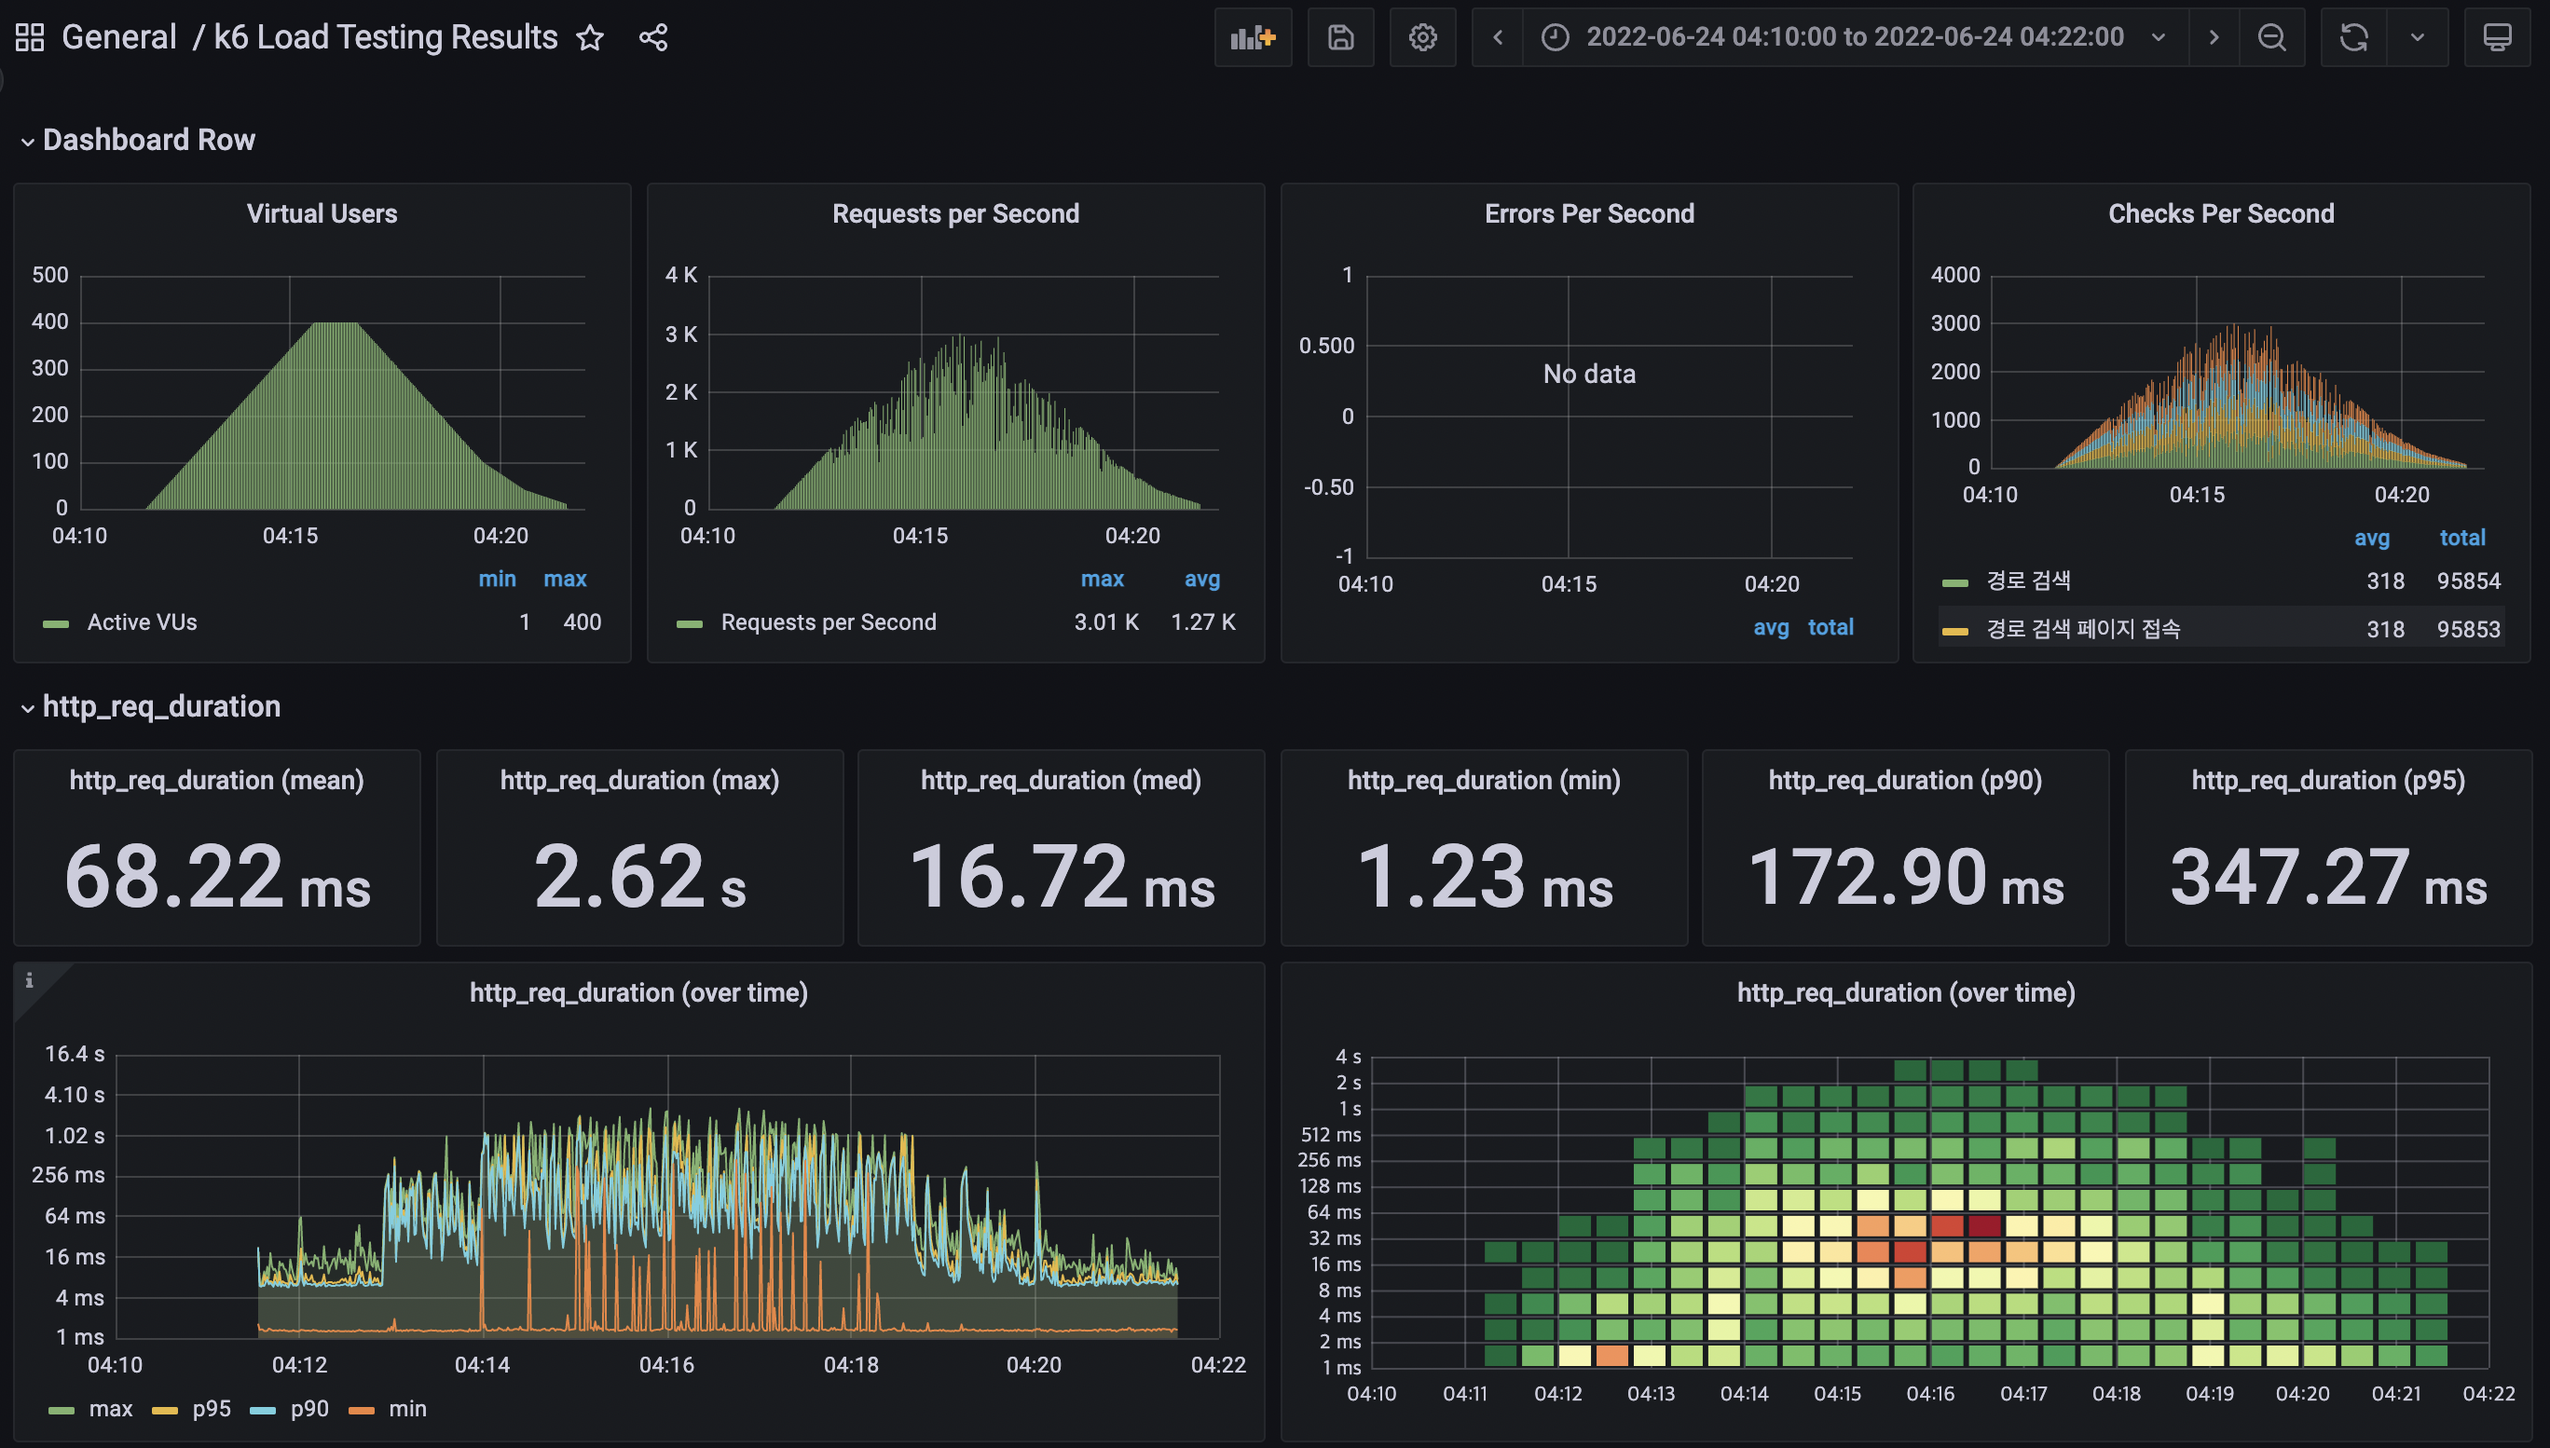
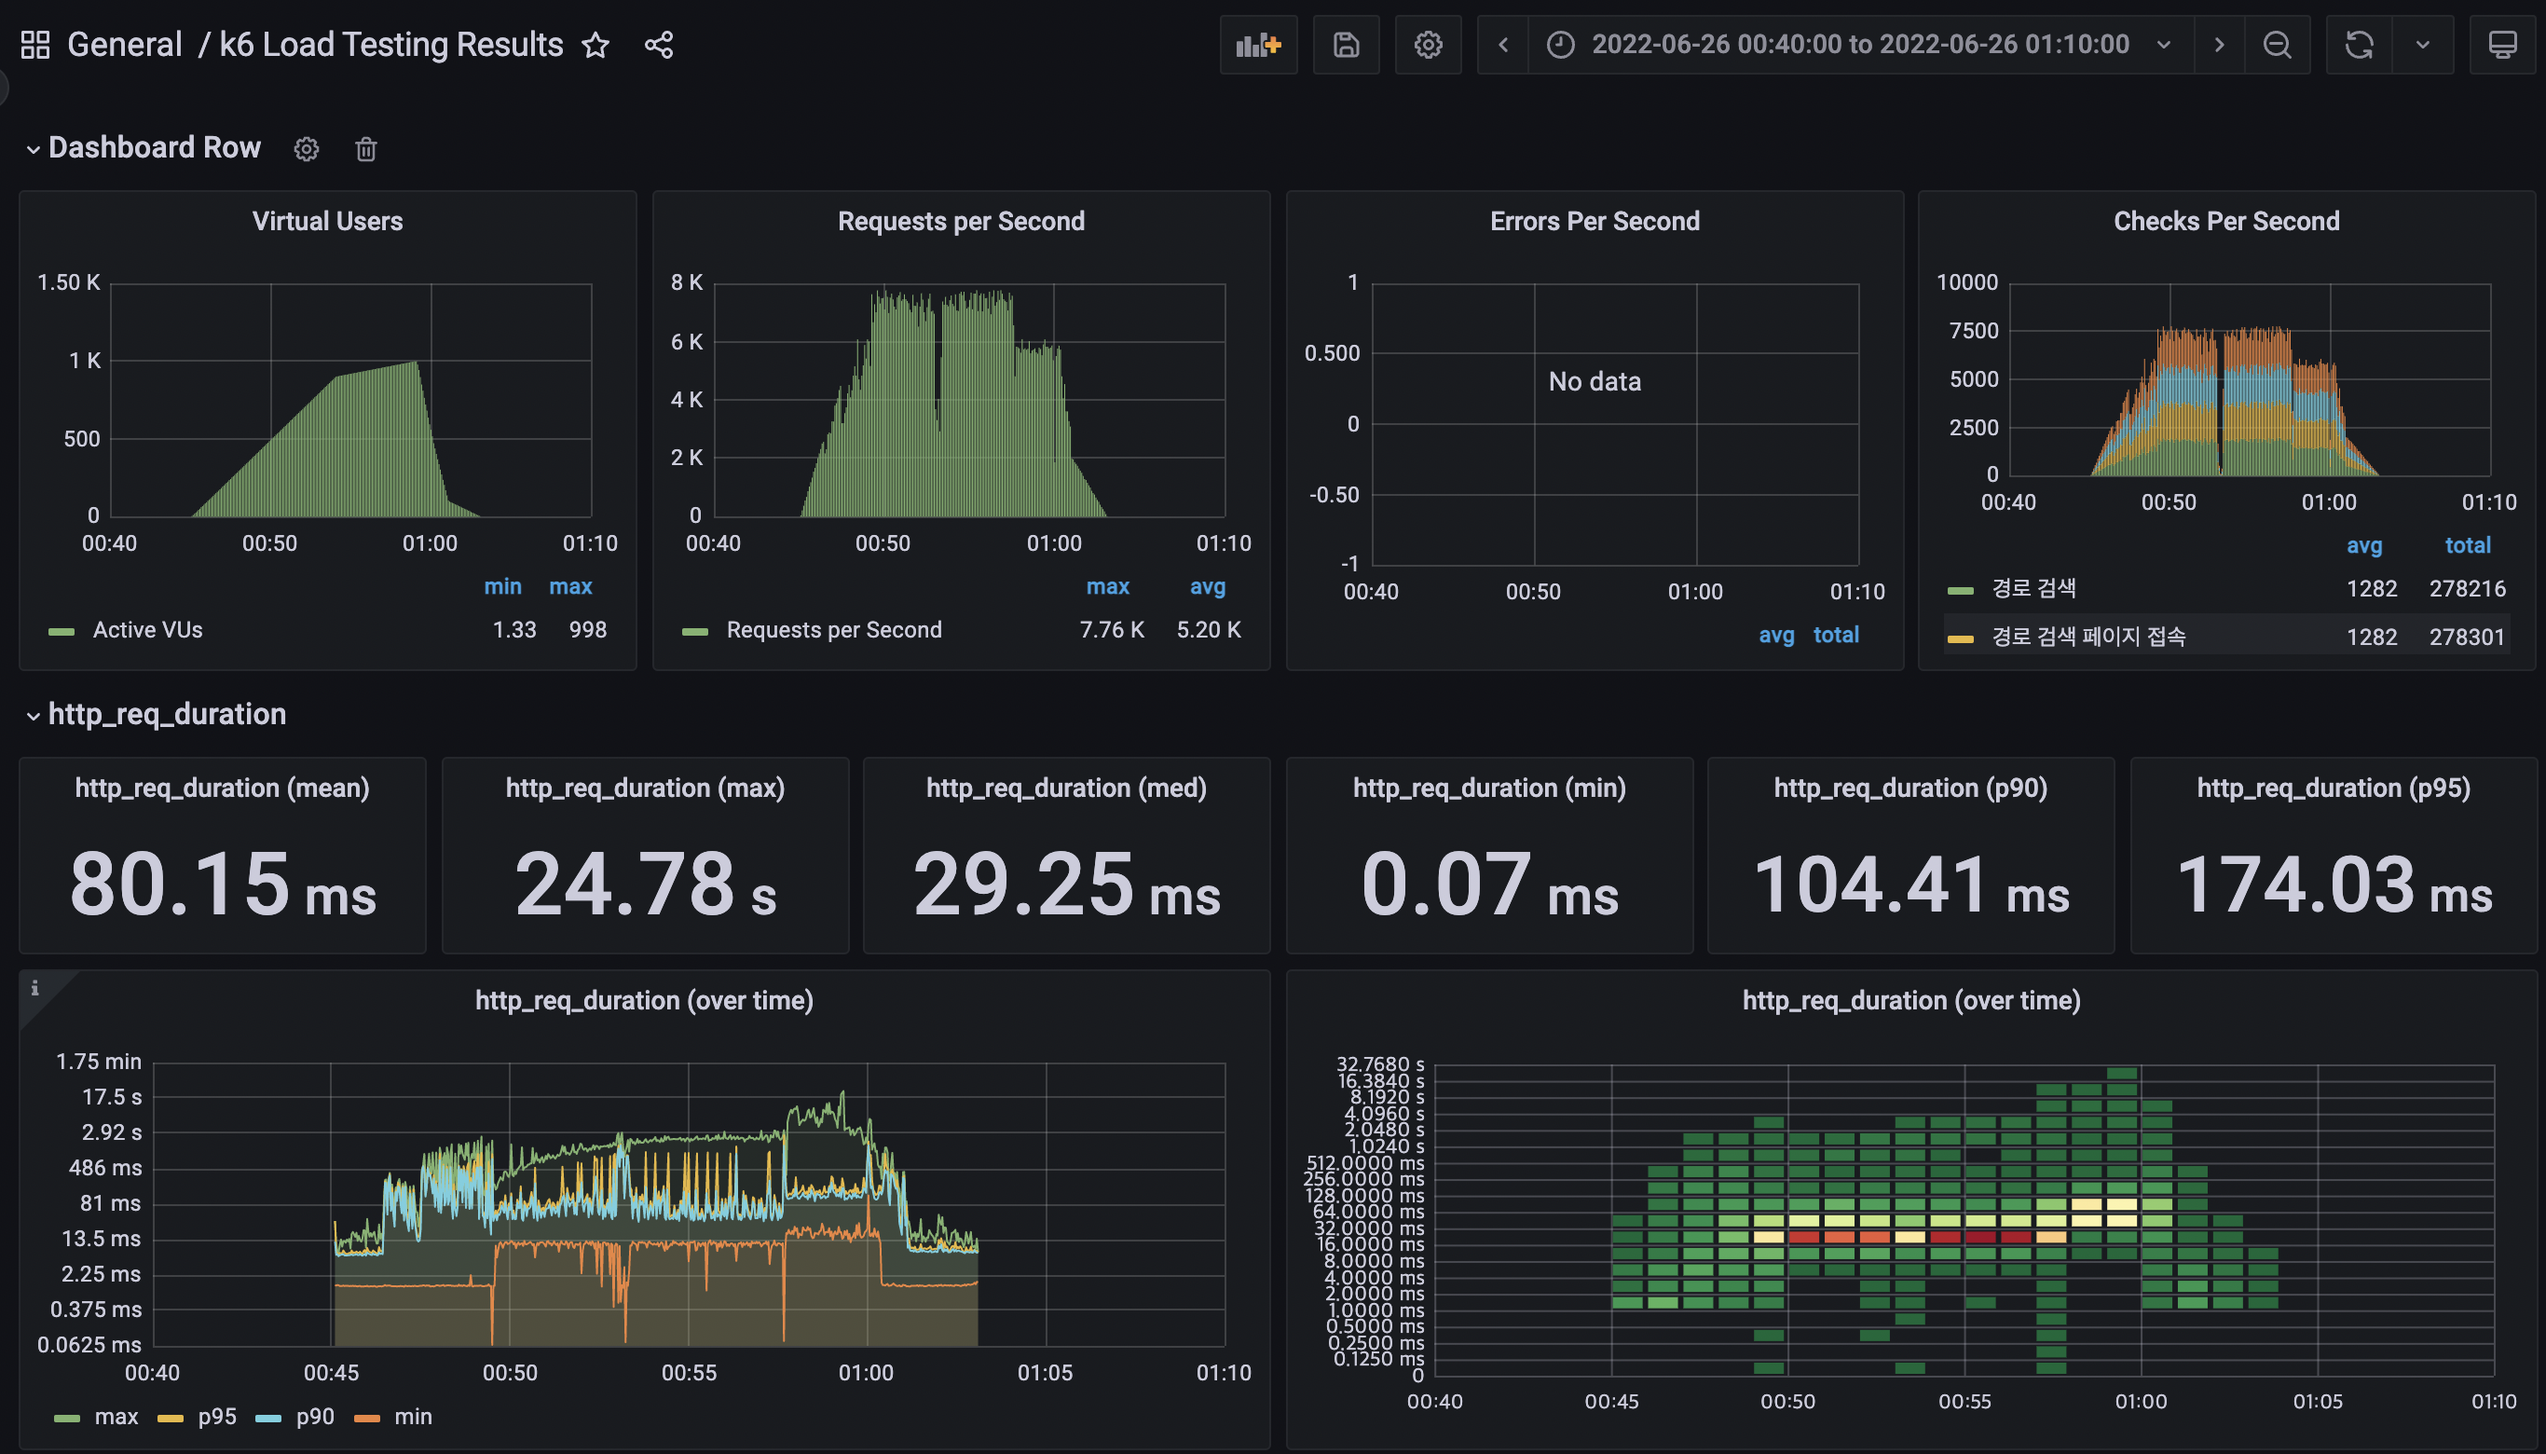
docs: step2 stress 테스트 추가

diff --git a/loadtest/stress/stress.js b/loadtest/stress/stress.js
@@ -7,16 +7,20 @@ export let options = {
         { duration: '1m', target: 200 },
         { duration: '1m', target: 300 },
         { duration: '1m', target: 400 },
-        { duration: '1m', target: 400 },
-        { duration: '1m', target: 300 },
-        { duration: '1m', target: 200 },
+        { duration: '1m', target: 500 },
+        { duration: '1m', target: 600 },
+        { duration: '1m', target: 700 },
+        { duration: '1m', target: 800 },
+        { duration: '1m', target: 900 },
+        { duration: '5m', target: 1000 },
+        { duration: '1m', target: 500 },
         { duration: '1m', target: 100 },
-        { duration: '1m', target: 40 },
-        { duration: '1m', target: 10 }
+        { duration: '1m', target: 50 },
+        { duration: '1m', target: 0 }
     ],
 
     thresholds: {
-        http_req_duration: ['p(99)<100'], // 99% of requests must complete below 1.5s
+        http_req_duration: ['p(99)<1500'], // 99% of requests must complete below 1.5s
     },
 };
 

diff --git a/README.md b/README.md
@@ -80,7 +80,7 @@ npm run dev
   * PC: 1.8s 이하 (서울교통공사 대비 20% 향상)
 
 #### 2. 웹 성능예산을 바탕으로 현재 지하철 노선도 서비스는 어떤 부분을 개선하면 좋을까요
-* 텍스트 기반 리소스 압축 ex) gzip
+* 텍스트 기반 리소스 압축 ex) gzip, minify
   * /js/vendors.js (2,125.0 KiB)
   * /js/main.js (172.0 KiB)
 * 캐싱 정책 설정하기
